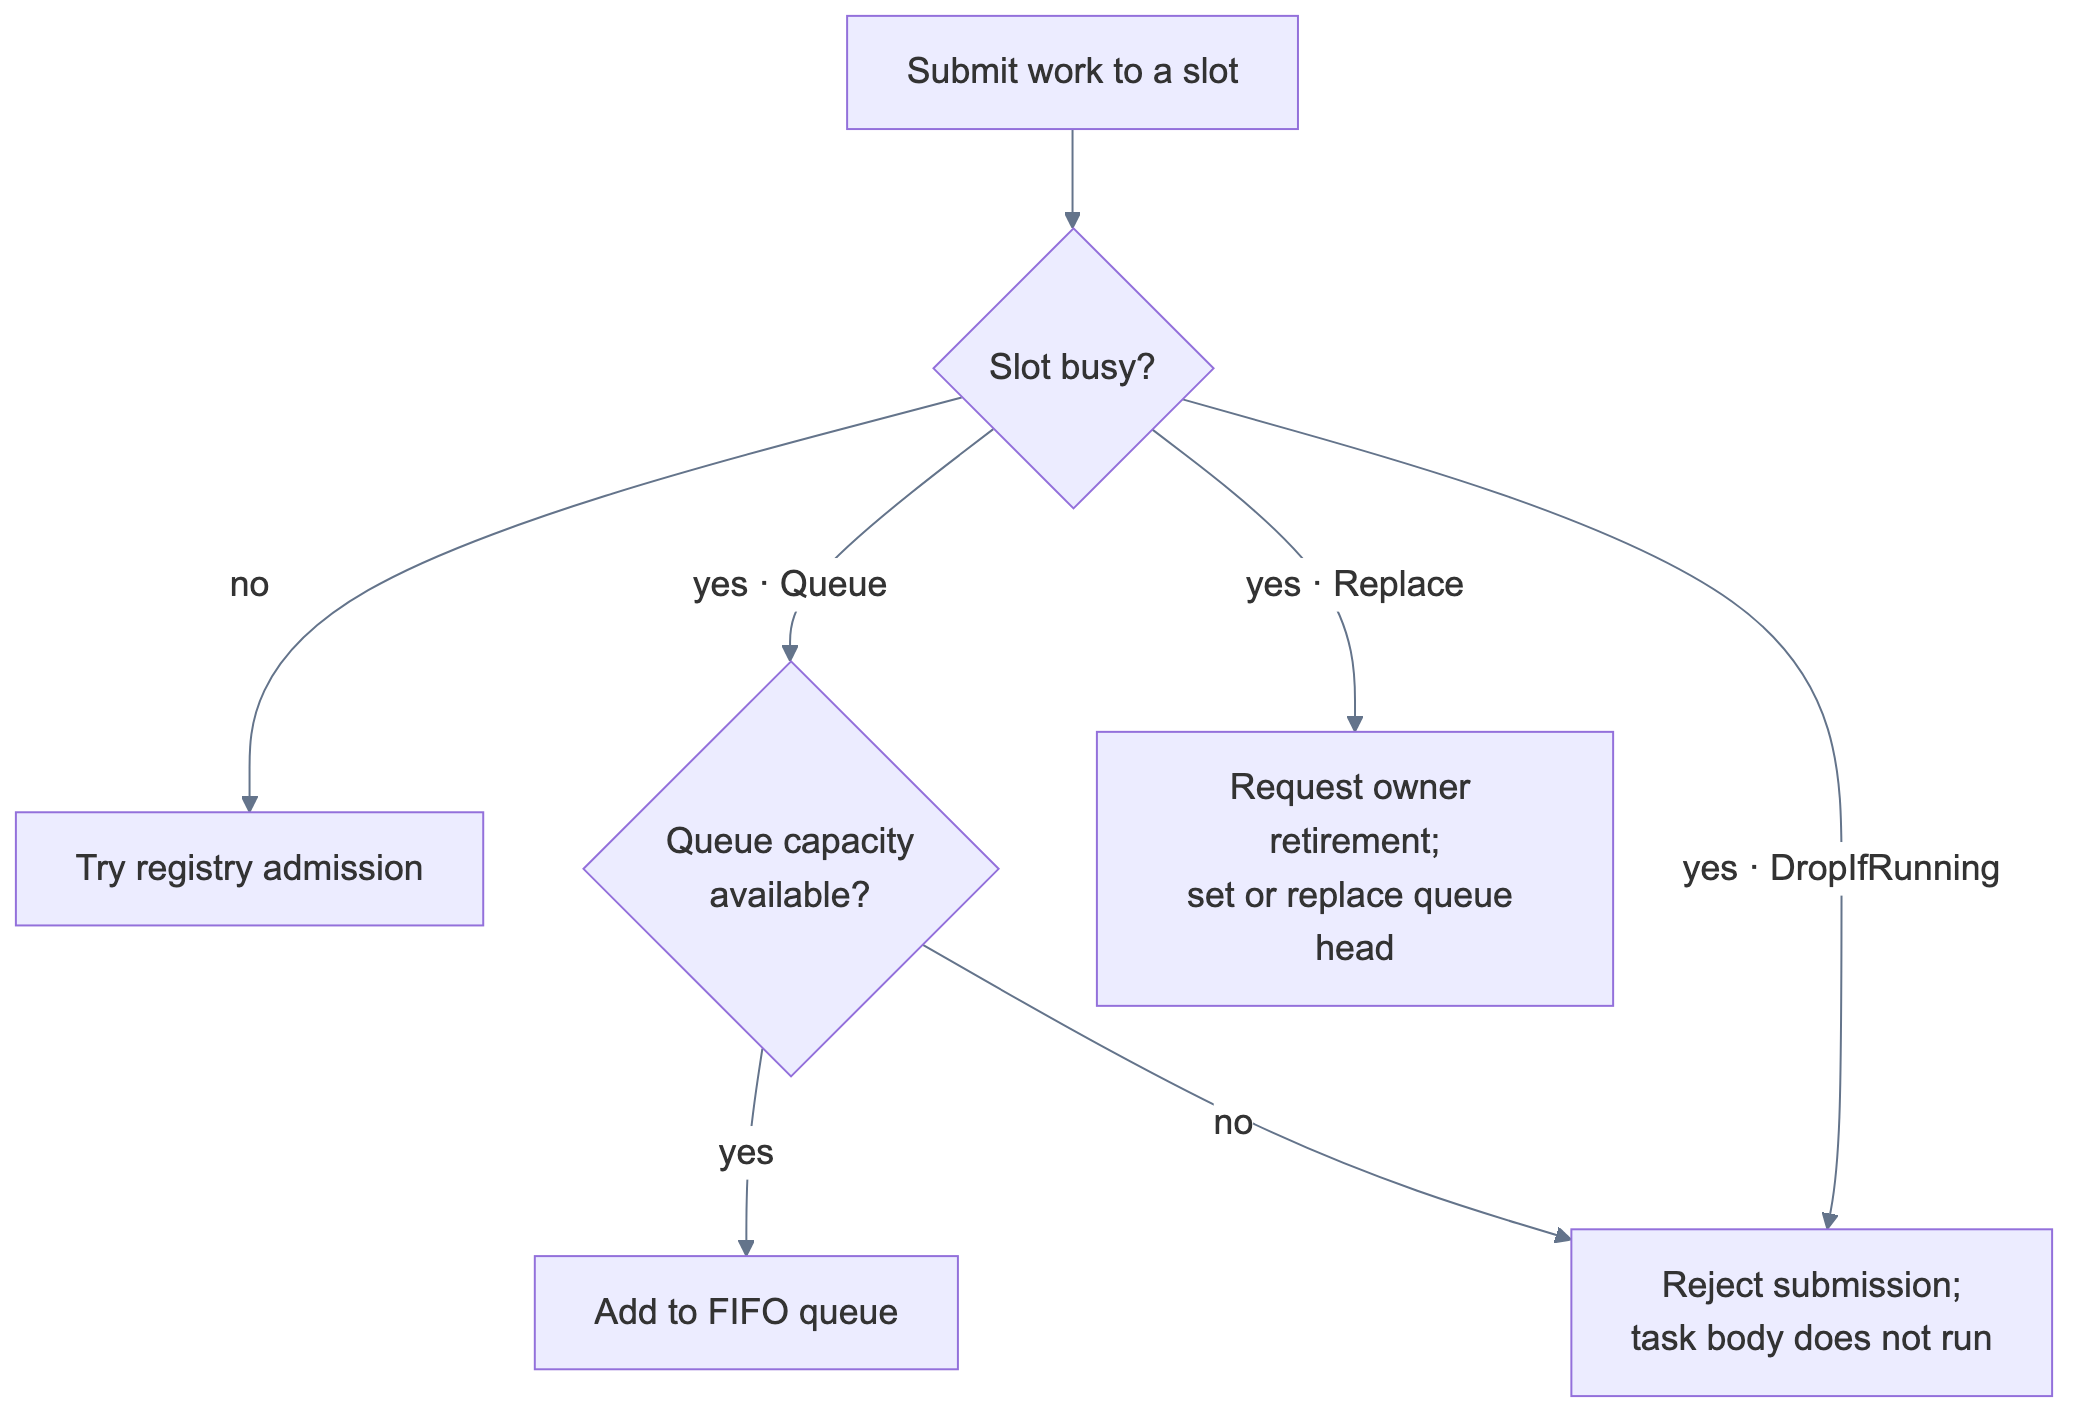
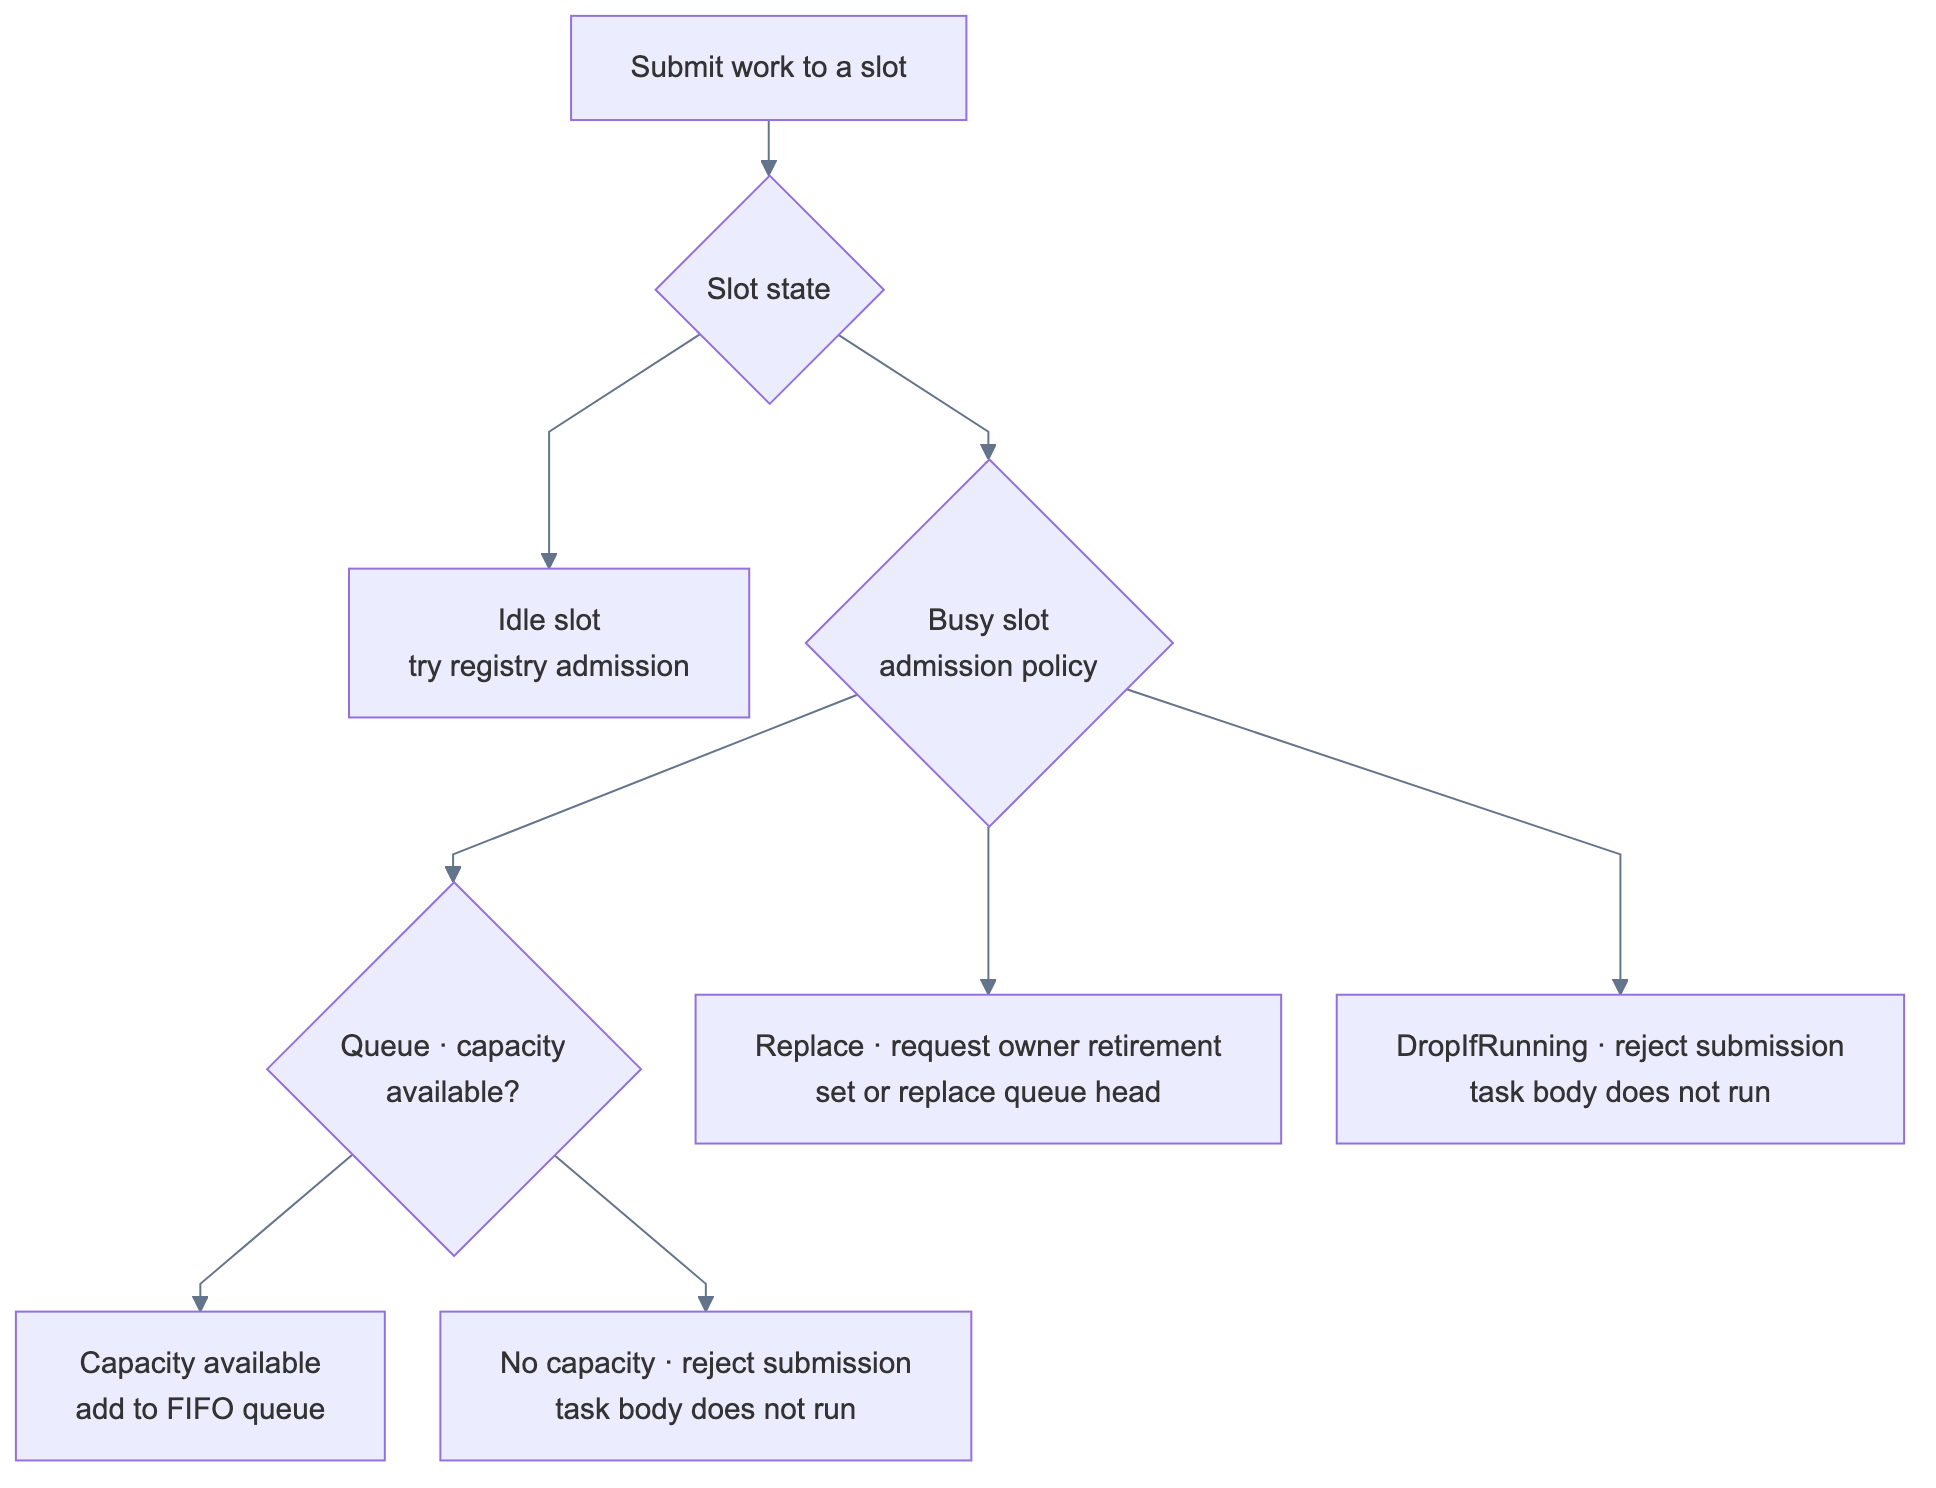
[schema] update taskvisor

diff --git a/assets/schema/taskvisor-controller.md b/assets/schema/taskvisor-controller.md
@@ -1,11 +1,15 @@
 ```mermaid
-%%{init: {"theme": "default", "flowchart": {"curve": "basis", "htmlLabels": true}, "themeVariables": {"primaryColor": "#eef2ff", "primaryTextColor": "#111827", "primaryBorderColor": "#7c3aed", "lineColor": "#64748b", "edgeLabelBackground": "#ffffff", "secondaryColor": "#f8fafc", "tertiaryColor": "#ffffff", "fontFamily": "Arial", "fontSize": "18px"}}}%%
-flowchart TD
-    submit["Submit work to a slot"] --> busy{"Slot busy?"}
-    busy -->|"no"| admit["Try registry admission"]
-    busy -->|"yes · Queue"| capacity{"Queue capacity<br/>available?"}
-    capacity -->|"yes"| queue["Add to FIFO queue"]
-    capacity -->|"no"| reject["Reject submission;<br/>task body does not run"]
-    busy -->|"yes · Replace"| replace["Request owner retirement;<br/>set or replace queue head"]
-    busy -->|"yes · DropIfRunning"| reject
+%%{init: {"theme": "default", "flowchart": {"curve": "linear", "htmlLabels": true, "nodeSpacing": 28, "rankSpacing": 28}, "themeVariables": {"primaryColor": "#eef2ff", "primaryTextColor": "#111827", "primaryBorderColor": "#7c3aed", "lineColor": "#64748b", "edgeLabelBackground": "#eef2ff", "secondaryColor": "#f8fafc", "tertiaryColor": "#ffffff", "fontFamily": "Arial", "fontSize": "15px"}}}%%
+flowchart TB
+    submit["Submit work to a slot"] --> state{"Slot state"}
+
+    state --> idle["Idle slot<br/>try registry admission"]
+    state --> policy{"Busy slot<br/>admission policy"}
+
+    policy --> queue{"Queue · capacity<br/>available?"}
+    policy --> replace["Replace&nbsp;·&nbsp;request&nbsp;owner&nbsp;retirement<br/>set&nbsp;or&nbsp;replace&nbsp;queue&nbsp;head"]
+    policy --> drop["DropIfRunning&nbsp;·&nbsp;reject&nbsp;submission<br/>task&nbsp;body&nbsp;does&nbsp;not&nbsp;run"]
+
+    queue --> enqueue["Capacity available<br/>add to FIFO queue"]
+    queue --> full["No&nbsp;capacity&nbsp;·&nbsp;reject&nbsp;submission<br/>task&nbsp;body&nbsp;does&nbsp;not&nbsp;run"]
 ```